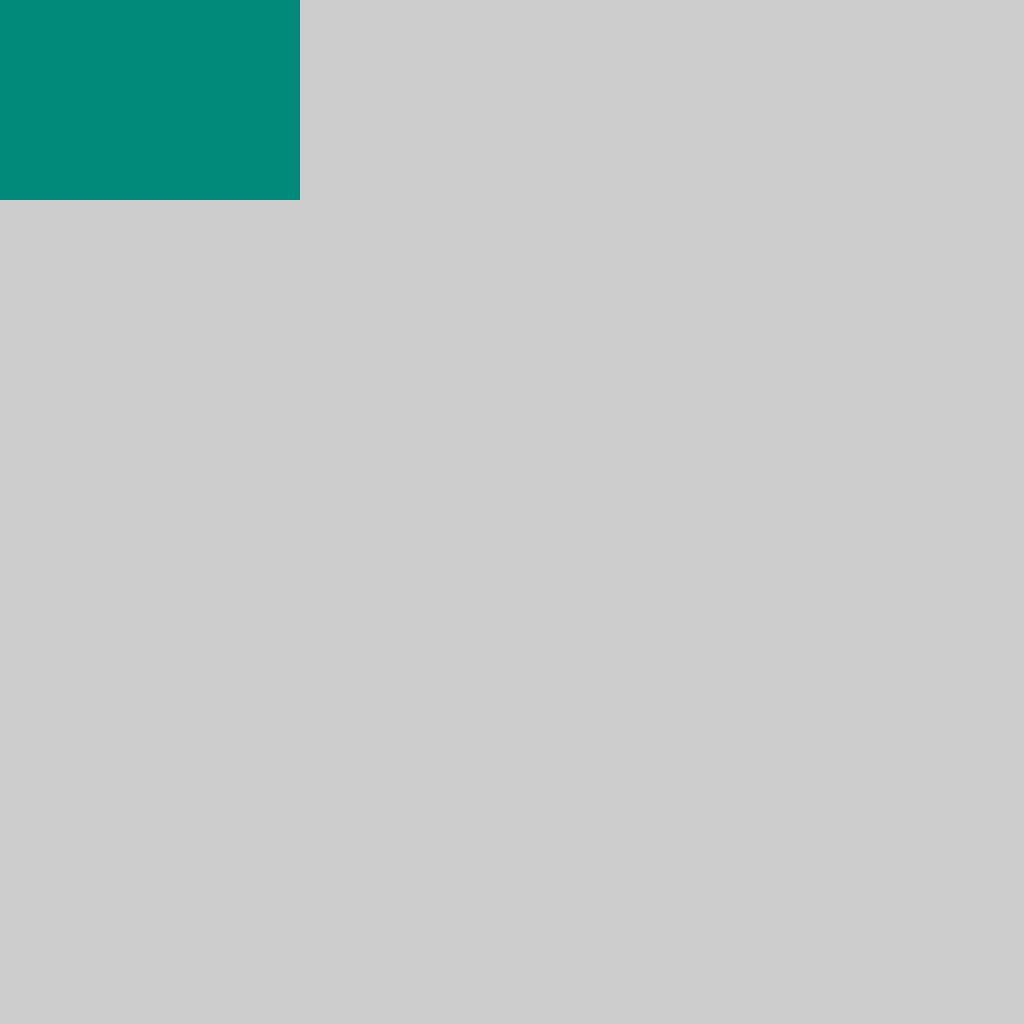
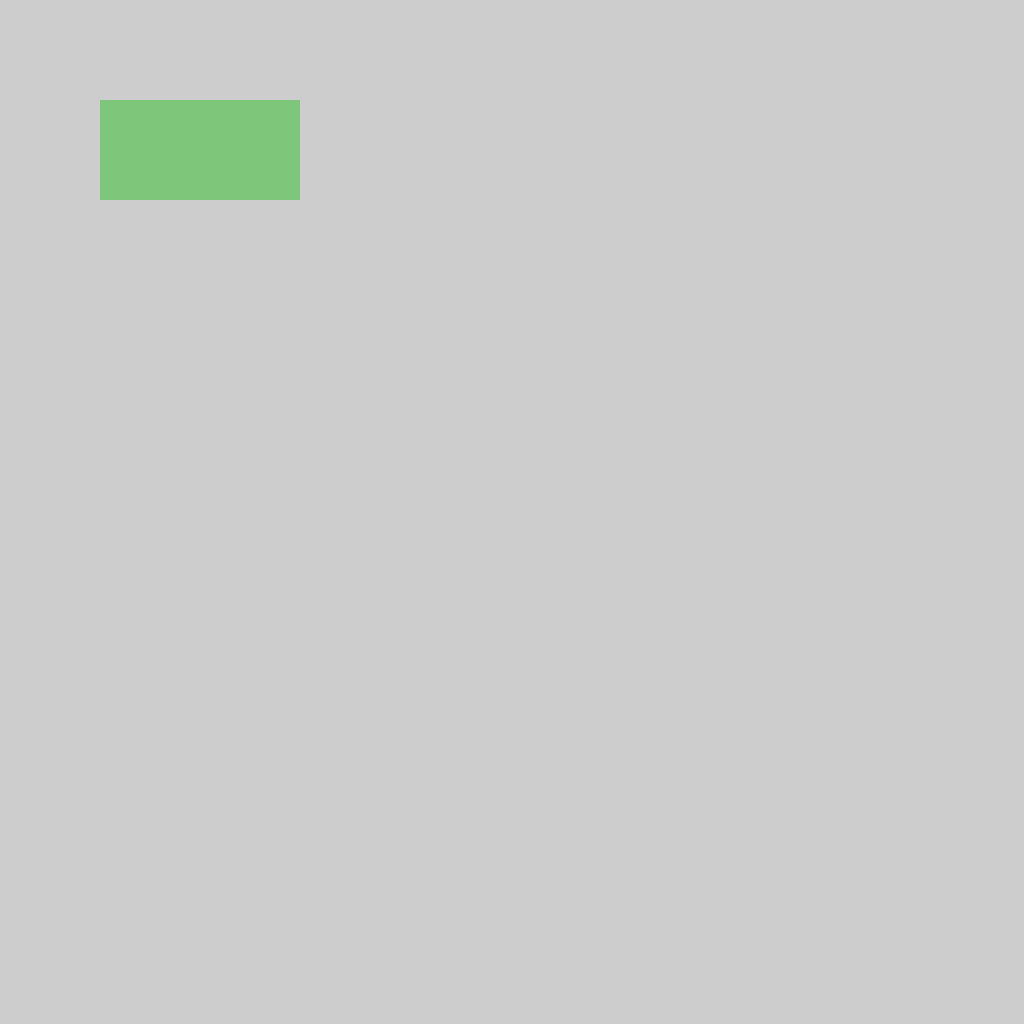
Moved the rectangle

Changed region(s): [[0.0, 0.0, 0.3125, 0.2188]]

diff --git a/src/HomeWork1App.cpp b/src/HomeWork1App.cpp
@@ -77,9 +77,9 @@ void HomeWork1App::update()
 	//Get our array of pixel information
 	uint8_t* dataArray = (*mySurface_).getData();
 
-	Color8u fill1 = Color8u(0,138,122);
+	Color8u fill1 = Color8u(125,198,122);
 	
-	drawRectangles(dataArray,(frame_number_%14), (frame_number_%14),200,300, fill1);
+	drawRectangles(dataArray,100,100,200,300, fill1);
 
 	
 
